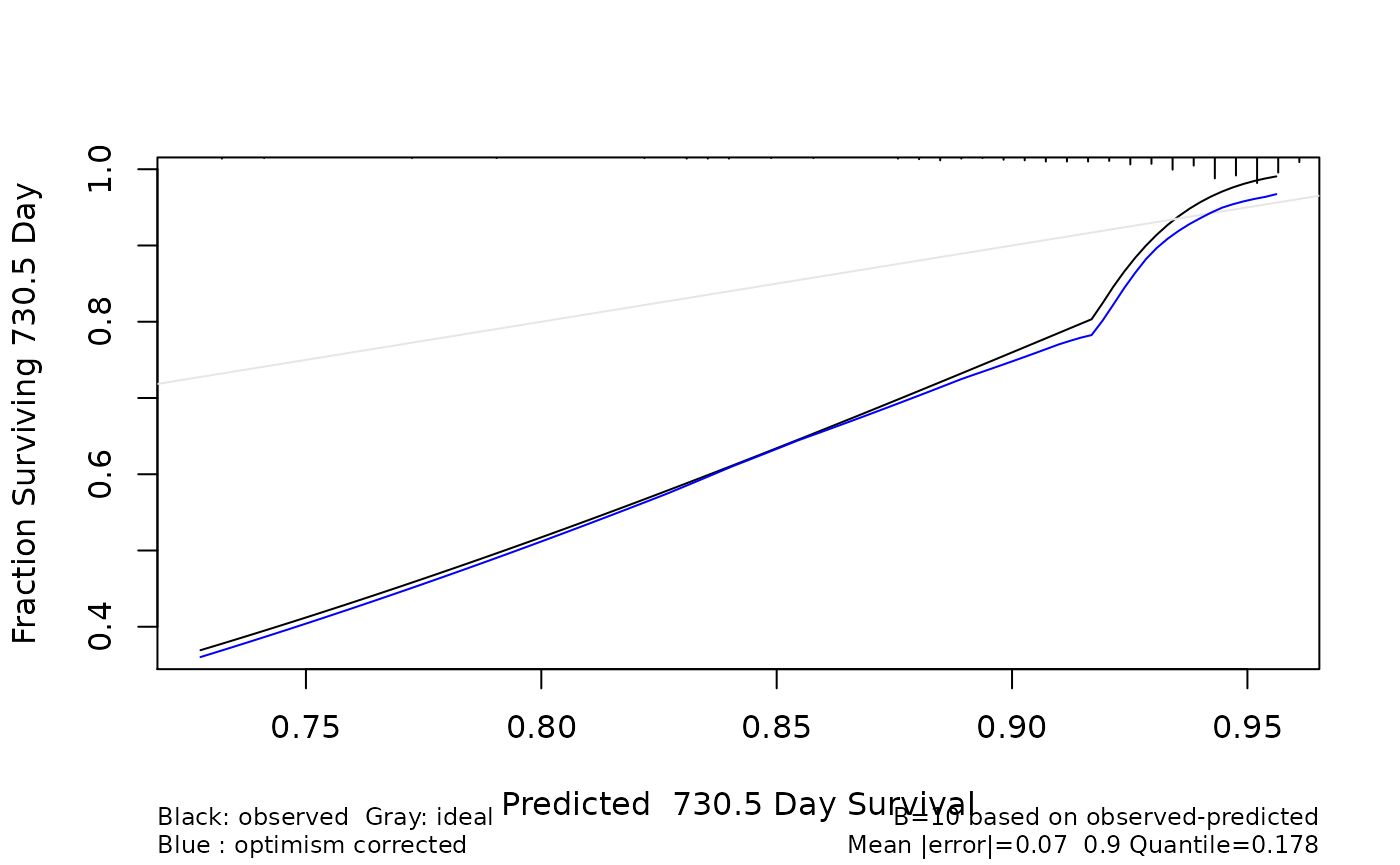
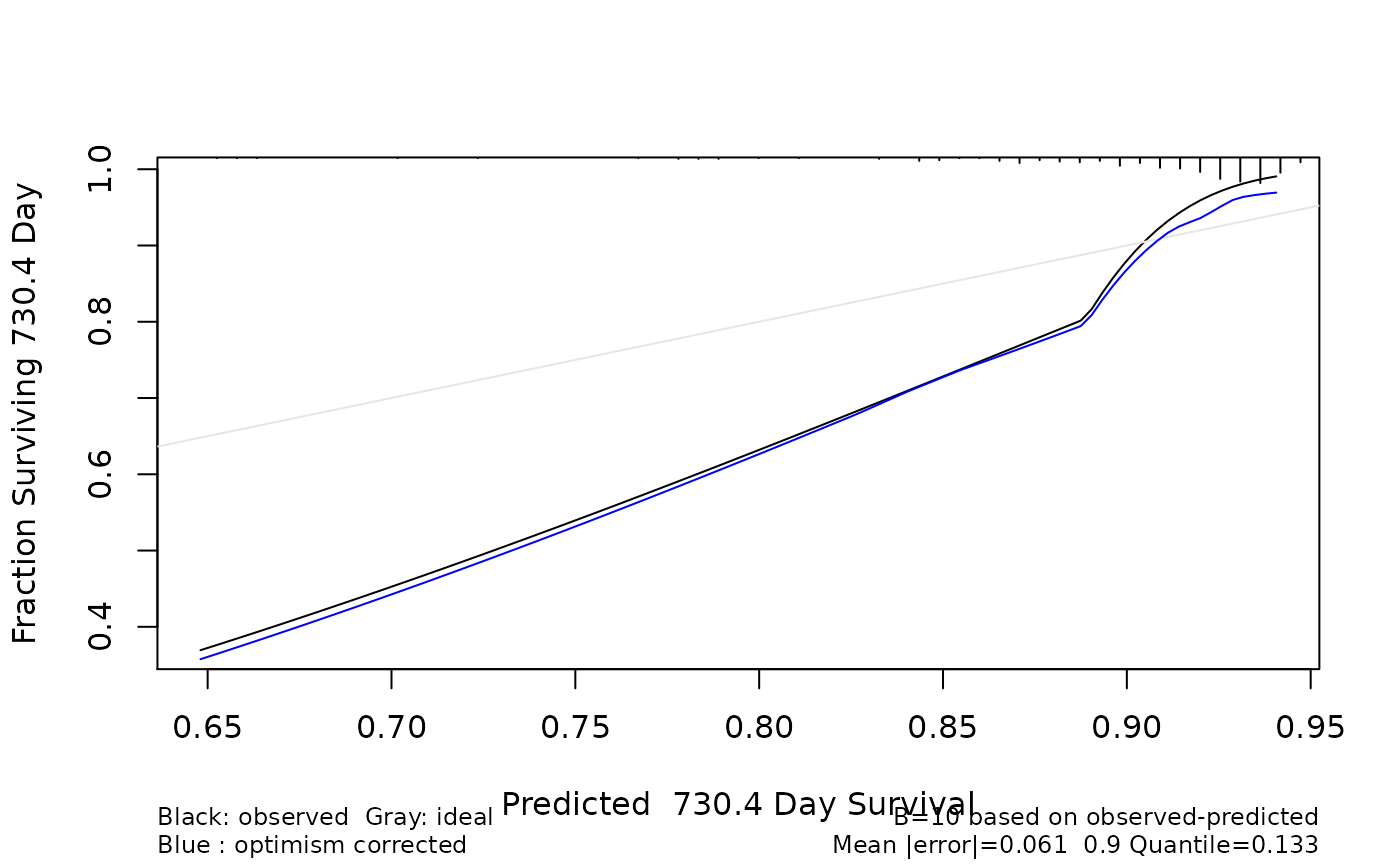
Built site for glmnettools: 0.0.4@29239b4

diff --git a/articles/glmnettools.html b/articles/glmnettools.html
@@ -31,7 +31,7 @@
       </button>
       <span class="navbar-brand">
         <a class="navbar-link" href="../index.html">glmnettools</a>
-        <span class="version label label-default" data-toggle="tooltip" data-placement="bottom" title="Released version">0.0.3</span>
+        <span class="version label label-default" data-toggle="tooltip" data-placement="bottom" title="Released version">0.0.4</span>
       </span>
     </div>
 
@@ -196,21 +196,22 @@
 ## 
 ##     backsolve</code></pre>
 <div class="sourceCode" id="cb31"><pre class="downlit sourceCode r">
-<code class="sourceCode R"><span class="va">cx</span> <span class="op">&lt;-</span> <span class="fu"><a href="../reference/as.coxph.html">as.cph</a></span><span class="op">(</span><span class="va">rcvob</span>, x <span class="op">=</span> <span class="va">x</span>, y <span class="op">=</span> <span class="va">y</span>, s <span class="op">=</span> <span class="st">"lambda.1se"</span><span class="op">)</span>
+<code class="sourceCode R"><span class="va">tm</span> <span class="op">&lt;-</span> <span class="fl">2</span> <span class="op">*</span> <span class="fl">365.2</span>
+<span class="va">cx</span> <span class="op">&lt;-</span> <span class="fu"><a href="../reference/as.coxph.html">as.cph</a></span><span class="op">(</span><span class="va">rcvob</span>, x <span class="op">=</span> <span class="va">x</span>, y <span class="op">=</span> <span class="va">y</span>, s <span class="op">=</span> <span class="st">"lambda.1se"</span>, time.inc <span class="op">=</span> <span class="va">tm</span><span class="op">)</span>
 
 <span class="fu"><a href="https://rdrr.io/r/base/Random.html">set.seed</a></span><span class="op">(</span><span class="fl">123</span><span class="op">)</span>
 <span class="co">## B should be much higher in real life</span>
-<span class="va">cb</span> <span class="op">&lt;-</span> <span class="fu"><a href="https://rdrr.io/pkg/rms/man/calibrate.html">calibrate</a></span><span class="op">(</span><span class="va">cx</span>, B <span class="op">=</span> <span class="fl">10</span>, u <span class="op">=</span> <span class="fl">2</span> <span class="op">*</span> <span class="fl">365.25</span><span class="op">)</span></code></pre></div>
-<pre><code>## Using Cox survival estimates at  500 Days</code></pre>
+<span class="va">cb</span> <span class="op">&lt;-</span> <span class="fu"><a href="https://rdrr.io/pkg/rms/man/calibrate.html">calibrate</a></span><span class="op">(</span><span class="va">cx</span>, B <span class="op">=</span> <span class="fl">10</span>, u <span class="op">=</span> <span class="va">tm</span><span class="op">)</span></code></pre></div>
+<pre><code>## Using Cox survival estimates at  730.4 Days</code></pre>
 <div class="sourceCode" id="cb33"><pre class="downlit sourceCode r">
 <code class="sourceCode R"><span class="va">cb</span></code></pre></div>
-<pre><code>## calibrate.cph(fit = cx, u = 2 * 365.25, B = 10)
+<pre><code>## calibrate.cph(fit = cx, u = tm, B = 10)
 ## 
 ## 
-## n=276  B=10  u=730.5 Day
+## n=276  B=10  u=730.4 Day
 ## 
 ## 
-## Mean |error|:0.06963131  0.9 Quantile of |error|:0.1783728</code></pre>
+## Mean |error|:0.06093228  0.9 Quantile of |error|:0.1334867</code></pre>
 <div class="sourceCode" id="cb35"><pre class="downlit sourceCode r">
 <code class="sourceCode R"><span class="fu"><a href="https://rdrr.io/r/graphics/plot.default.html">plot</a></span><span class="op">(</span><span class="va">cb</span><span class="op">)</span></code></pre></div>
 <p><img src="glmnettools_files/figure-html/cph-1.png" width="700"></p>
@@ -239,7 +240,7 @@
 ## 
 ## other attached packages:
 ##  [1] rms_6.1-1         SparseM_1.81      Hmisc_4.5-0       ggplot2_3.3.3    
-##  [5] Formula_1.2-4     lattice_0.20-41   survival_3.2-7    glmnettools_0.0.3
+##  [5] Formula_1.2-4     lattice_0.20-41   survival_3.2-7    glmnettools_0.0.4
 ##  [9] glmnet_4.1-1      Matrix_1.3-2     
 ## 
 ## loaded via a namespace (and not attached):

diff --git a/reference/as.html b/reference/as.html
@@ -73,7 +73,7 @@ survival::coxph or rms::cph." />
       </button>
       <span class="navbar-brand">
         <a class="navbar-link" href="../index.html">glmnettools</a>
-        <span class="version label label-default" data-toggle="tooltip" data-placement="bottom" title="Released version">0.0.3</span>
+        <span class="version label label-default" data-toggle="tooltip" data-placement="bottom" title="Released version">0.0.4</span>
       </span>
     </div>
 
@@ -134,7 +134,7 @@ survival::coxph or rms::cph." />
 <span class='fu'>as.cph</span><span class='op'>(</span><span class='va'>object</span>, <span class='va'>s</span>, <span class='va'>x</span>, <span class='va'>y</span>, <span class='va'>...</span><span class='op'>)</span>
 
 <span class='co'># S3 method for coxnet</span>
-<span class='fu'>as.cph</span><span class='op'>(</span><span class='va'>object</span>, <span class='va'>s</span>, <span class='va'>x</span>, <span class='va'>y</span>, <span class='va'>...</span><span class='op'>)</span></pre>
+<span class='fu'>as.cph</span><span class='op'>(</span><span class='va'>object</span>, <span class='va'>s</span>, <span class='va'>x</span>, <span class='va'>y</span>, time.inc <span class='op'>=</span> <span class='fl'>30</span>, <span class='va'>...</span><span class='op'>)</span></pre>
 
     <h2 class="hasAnchor" id="arguments"><a class="anchor" href="#arguments"></a>Arguments</h2>
     <table class="ref-arguments">
@@ -159,6 +159,10 @@ survival::coxph or rms::cph." />
     <tr>
       <th>y</th>
       <td><p>response as in <code>glmnet</code>.</p></td>
+    </tr>
+    <tr>
+      <th>time.inc</th>
+      <td><p><code><a href='https://rdrr.io/r/base/numeric.html'>numeric(1)</a></code>, time increment, see <code><a href='https://rdrr.io/pkg/rms/man/cph.html'>rms::cph()</a></code> for details.</p></td>
     </tr>
     </table>
 

diff --git a/news/index.html b/news/index.html
@@ -71,7 +71,7 @@
       </button>
       <span class="navbar-brand">
         <a class="navbar-link" href="../index.html">glmnettools</a>
-        <span class="version label label-default" data-toggle="tooltip" data-placement="bottom" title="Released version">0.0.3</span>
+        <span class="version label label-default" data-toggle="tooltip" data-placement="bottom" title="Released version">0.0.4</span>
       </span>
     </div>
 
@@ -115,6 +115,13 @@
     <div id="glmnettools-00" class="section level1">
 <h1 class="page-header" data-toc-text="0.0">
 <a href="#glmnettools-00" class="anchor"></a>glmnettools 0.0</h1>
+<div id="changes-in-004" class="section level2">
+<h2 class="hasAnchor">
+<a href="#changes-in-004" class="anchor"></a>Changes in 0.0.4</h2>
+<ul>
+<li>Pass <code>time.inc</code> argument to <code><a href="https://rdrr.io/pkg/rms/man/cph.html">rms::cph</a></code> in <code>as.cph</code>.</li>
+</ul>
+</div>
 <div id="changes-in-003" class="section level2">
 <h2 class="hasAnchor">
 <a href="#changes-in-003" class="anchor"></a>Changes in 0.0.3</h2>

diff --git a/reference/plot.rcv.glmnet.html b/reference/plot.rcv.glmnet.html
@@ -73,7 +73,7 @@ rcv.glmnet()." />
       </button>
       <span class="navbar-brand">
         <a class="navbar-link" href="../index.html">glmnettools</a>
-        <span class="version label label-default" data-toggle="tooltip" data-placement="bottom" title="Released version">0.0.3</span>
+        <span class="version label label-default" data-toggle="tooltip" data-placement="bottom" title="Released version">0.0.4</span>
       </span>
     </div>
 

diff --git a/reference/rcv.glmnet.html b/reference/rcv.glmnet.html
@@ -73,7 +73,7 @@ calls." />
       </button>
       <span class="navbar-brand">
         <a class="navbar-link" href="../index.html">glmnettools</a>
-        <span class="version label label-default" data-toggle="tooltip" data-placement="bottom" title="Released version">0.0.3</span>
+        <span class="version label label-default" data-toggle="tooltip" data-placement="bottom" title="Released version">0.0.4</span>
       </span>
     </div>
 

diff --git a/articles/index.html b/articles/index.html
@@ -71,7 +71,7 @@
       </button>
       <span class="navbar-brand">
         <a class="navbar-link" href="../index.html">glmnettools</a>
-        <span class="version label label-default" data-toggle="tooltip" data-placement="bottom" title="Released version">0.0.3</span>
+        <span class="version label label-default" data-toggle="tooltip" data-placement="bottom" title="Released version">0.0.4</span>
       </span>
     </div>
 

diff --git a/reference/index.html b/reference/index.html
@@ -71,7 +71,7 @@
       </button>
       <span class="navbar-brand">
         <a class="navbar-link" href="../index.html">glmnettools</a>
-        <span class="version label label-default" data-toggle="tooltip" data-placement="bottom" title="Released version">0.0.3</span>
+        <span class="version label label-default" data-toggle="tooltip" data-placement="bottom" title="Released version">0.0.4</span>
       </span>
     </div>
 

diff --git a/reference/predict.rcv.glmnet.html b/reference/predict.rcv.glmnet.html
@@ -72,7 +72,7 @@
       </button>
       <span class="navbar-brand">
         <a class="navbar-link" href="../index.html">glmnettools</a>
-        <span class="version label label-default" data-toggle="tooltip" data-placement="bottom" title="Released version">0.0.3</span>
+        <span class="version label label-default" data-toggle="tooltip" data-placement="bottom" title="Released version">0.0.4</span>
       </span>
     </div>
 

diff --git a/404.html b/404.html
@@ -71,7 +71,7 @@
       </button>
       <span class="navbar-brand">
         <a class="navbar-link" href="index.html">glmnettools</a>
-        <span class="version label label-default" data-toggle="tooltip" data-placement="bottom" title="Released version">0.0.3</span>
+        <span class="version label label-default" data-toggle="tooltip" data-placement="bottom" title="Released version">0.0.4</span>
       </span>
     </div>
 

diff --git a/authors.html b/authors.html
@@ -71,7 +71,7 @@
       </button>
       <span class="navbar-brand">
         <a class="navbar-link" href="index.html">glmnettools</a>
-        <span class="version label label-default" data-toggle="tooltip" data-placement="bottom" title="Released version">0.0.3</span>
+        <span class="version label label-default" data-toggle="tooltip" data-placement="bottom" title="Released version">0.0.4</span>
       </span>
     </div>
 

diff --git a/index.html b/index.html
@@ -32,7 +32,7 @@
       </button>
       <span class="navbar-brand">
         <a class="navbar-link" href="index.html">glmnettools</a>
-        <span class="version label label-default" data-toggle="tooltip" data-placement="bottom" title="Released version">0.0.3</span>
+        <span class="version label label-default" data-toggle="tooltip" data-placement="bottom" title="Released version">0.0.4</span>
       </span>
     </div>
 
